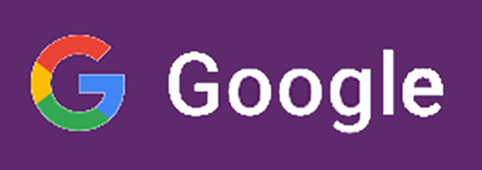
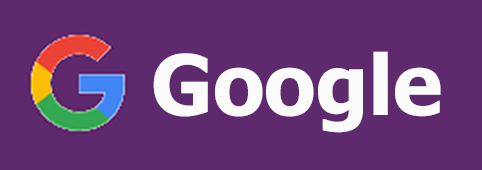
efecto del boton google al pasar el mouse

Changed region(s): [[0.3112, 0.2941, 0.9336, 0.7941]]

diff --git a/src/components/Home.js b/src/components/Home.js
@@ -7,15 +7,15 @@ export const Home = () => {
   title.innerText = 'Home';
   const container = document.createElement('section');
   container.className = 'mainContainer';
-  /****************MURO****************** */
-const sectionPost =document.createElement('section');
-sectionPost.id="scPost";
-const textPost=document.createElement('txt');
-textPost.placeholder = '¿Qué vas a compartir?'
-const frmEnterPost = document.createElement('form');
-frmEnterPost.id="allPostContainer";
+  /** **************MURO****************** */
+  const sectionPost = document.createElement('section');
+  sectionPost.id = 'scPost';
+  const textPost = document.createElement('txt');
+  textPost.placeholder = '¿Qué vas a compartir?';
+  const frmEnterPost = document.createElement('form');
+  frmEnterPost.id = 'allPostContainer';
 
-  /**********FIN MURO******************* */
+  /** ********FIN MURO******************* */
   const signOutBtn = document.createElement('button');
   signOutBtn.type = 'button';
   signOutBtn.innerText = 'Cerrar sesión';

diff --git a/src/style.css b/src/style.css
@@ -89,14 +89,16 @@ text-align: center;
     height:80%;
     margin-top: 1%;
     background-color:#FBE3D4;
-    opacity: 0.8;
+   /* opacity: 0.8;*/
     border-radius: 10px;
     margin-left: 15%;
     border-style: solid;
 }
 .btnGoogle:hover{
     cursor: pointer;
-    opacity: 1;
+ /*   opacity: 0.8;*/
+    
+
 }
 
 /**Estilos pagina de registro**/
@@ -180,8 +182,8 @@ footer{
         width: 70%;
     }
     .btnGoogle{
-        width:70%;
-        height:70%;
+        width:62%;
+        height:58%;
     }
     /** Responsividad para register **/
     .container-register{  

diff --git a/src/components/Login.js b/src/components/Login.js
@@ -66,6 +66,14 @@ export const Login = () => {
   btnGoogle.alt = 'Google';
   btnGoogle.width = '100%';
   btnGoogle.height = '100%';
+  // btnGoogle.onmouseover = (btnGoogle.src = 'images/googleBtn2.png');
+  btnGoogle.addEventListener('mouseover', () => {
+    btnGoogle.src = 'images/googleBtn2.png';
+  });
+  btnGoogle.addEventListener('mouseout', () => {
+    btnGoogle.src = 'images/googleBtn.png';
+  });
+
   btnGoogle.addEventListener('click', async () => {
     try {
       const result = await loginWithGoogle();
